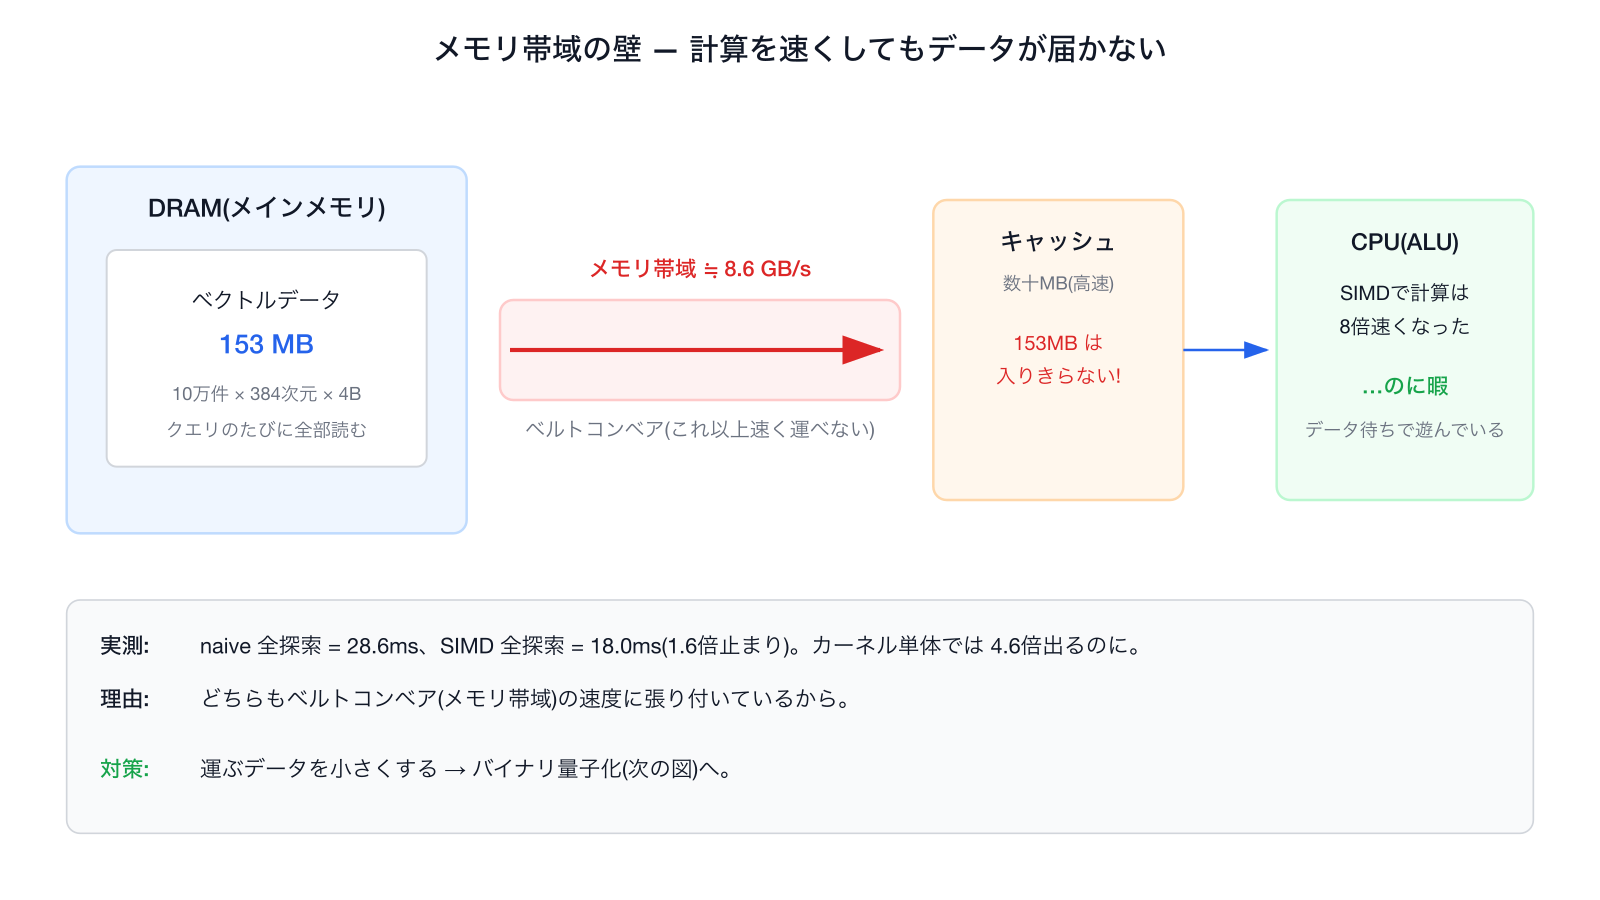
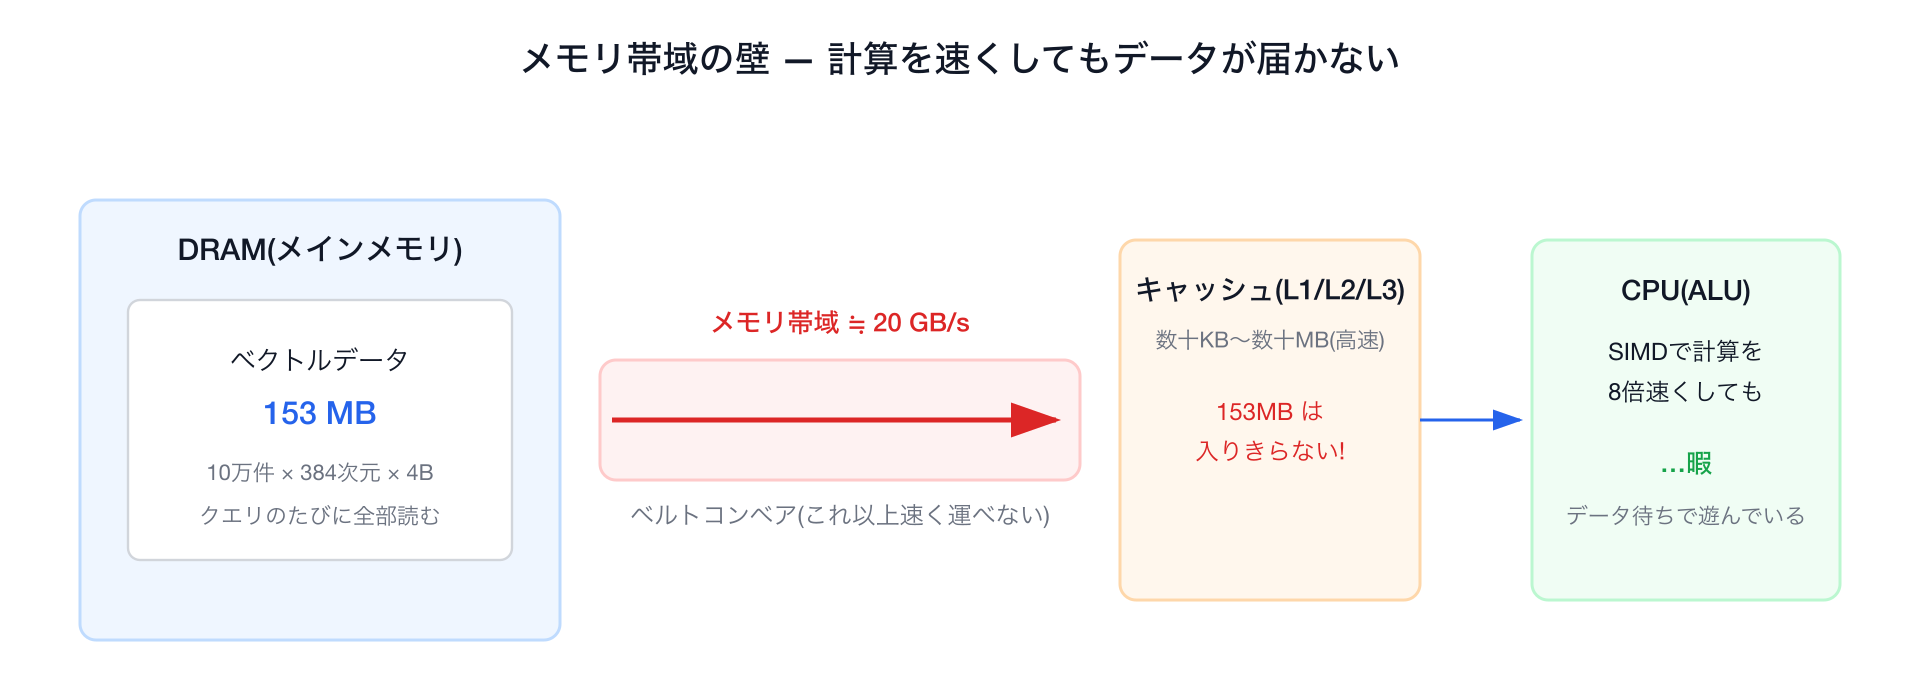
docs(workshop): 「CPUアーキ予備知識不要」の参加資格に合わせて用語の初出を全て補強
最重要: メモリ階層の導入が無いまま §04 以降がキャッシュ/DRAM に依存していた問題を解消
- §04 にメモリ階層プライマー(レジスタ→L1/L2/L3→DRAM・帯域が桁で違う)を追加
- 未使用だった memory-wall 図を改修して §04 に採用(帯域 8.6→20 GB/s、
  キャッシュに L1/L2/L3 を明記、c7i 時代の実測パネルは削除しネタバレも回避)
- LLC → 「最後段のキャッシュ L3」に統一(引用元 ceiling_mem_test.go のコメントも同期)

初出グロス8件:
- FMA(掛けて足すまでを1命令でやる積和命令)、popcount(立っている bit を数える)
- HNSW・IVF(候補を絞る近似索引)、量子化(値を少ないビットで粗く持つ)
- rerank(粗く絞ってから正確に採点し直す)、fp32(= float32)
- サイクル(CPU クロックの1拍)、スカラ縮約/発行(⚠注を平易に書き換え)

diff --git a/internal/vec/ceiling_mem_test.go b/internal/vec/ceiling_mem_test.go
@@ -10,7 +10,7 @@ import "sync"
 //     単コアが DRAM から実際に引ける帯域を測れるので、これが天井の実測値。
 //   - ceiling_mem_scalar_test.go : amd64/SIMD 以外向けのスカラー fallback。
 //
-// 配列は LLC を確実に溢れさせる 256MB。GB/s を ReportMetric で出す。
+// 配列は L3 キャッシュを確実に溢れさせる 256MB。GB/s を ReportMetric で出す。
 // 詳細は docs/workshop/workshop.md。
 //
 // ※ スカラー縮約(a += x[i])でこれを測ると、float 加算の発行/レイテンシで律速して
@@ -18,7 +18,7 @@ import "sync"
 //    達成する帯域すら下回ってしまい、ルーフライン上で点が屋根の上に来てしまう。
 //    そのため天井ベンチも検索と同じ SIMD ロードで測る。詳細は OPTIMIZATION_LOG.md。
 
-const memN = 1 << 26 // 67,108,864 float32 = 256 MB(LLC 溢れ確実)。64/32 で割り切れる
+const memN = 1 << 26 // 67,108,864 float32 = 256 MB(L3 溢れ確実)。64/32 で割り切れる
 
 var (
 	memOnce       sync.Once

diff --git a/docs/workshop/workshop.md b/docs/workshop/workshop.md
@@ -10,7 +10,7 @@ Go 1.26 の実験的 SIMD で、外部ライブラリなしの Pure Go ベクト
 - Go の標準 SIMD(archsimd)の**書き方** — `Float32x8` + FMA でアセンブリも cgo も書かずにベクトル命令を叩く
 - **ルーフラインモデルとは** — 何で詰まっているか(演算律速/メモリ律速)を1枚で見極め、測る → 算術強度(AI)を出す → 当たっている天井を見る → その天井を狙う手だけ打つ
 - **SIMD が「どこで効くか」** — 演算律速なら効き(カーネル・バッチ化)、メモリ律速では頭打ち。それを測って見極められるようになる
-- **高速化の二本柱** — SIMD(実装効率)× データ表現(再利用＝バッチ / バイト削減＝量子化)。そして速度と精度の両立(rerank)
+- **高速化の二本柱** — SIMD(実装効率)× データ表現(再利用＝バッチ / バイト削減＝量子化: 値を少ないビットで粗く持つ)。そして速度と精度の両立(rerank: 粗く絞ってから正確に採点し直す)
 - **実測の作法** — 2粒度で測る・天井をマイクロベンチで実測・Recall で精度を測る
 
 **対象と前提:** Go の基礎が読めれば十分で、CPU アーキの予備知識は要りません(専門用語は初出のところで補足します)。**読み方:** 上から順に通読でき、各節は「なぜ → コード → どうなったか」を実行コマンドつきで追えます。引用ブロックのコラムと「持ち帰り」「付録」は発展的な内容なので、当日の40分に収まらなくても後から読めます。
@@ -39,7 +39,7 @@ Go 1.26 では `GOEXPERIMENT=simd` を付けてビルドすると `simd/archsimd
 ```go
 va := archsimd.LoadFloat32x8Slice(a)   // float32 を8個ロード
 vb := archsimd.LoadFloat32x8Slice(b)
-acc = va.MulAdd(vb, acc)               // acc += va*vb (FMA という1命令)
+acc = va.MulAdd(vb, acc)               // acc += va*vb(FMA: 掛けて足すまでを1命令でやる積和命令)
 ```
 
 注意点として、`archsimd` は今のところ **amd64(Intel/AMD)専用**です。Apple Silicon の Mac(arm64)ではパッケージ自体が無く、スカラ処理にフォールバックします(Go 1.27 では arm64(Neon)対応が予定されています — 最後の「持ち帰り」で触れます)。
@@ -62,7 +62,7 @@ var c archsimd.Uint64x4     // uint64 を4レーン
 va := archsimd.LoadFloat32x8Slice(xs)  // スライス → レジスタ(ロード)
 va = va.MulAdd(vb, acc)                // 積和      → VFMADD
 xo := vc.Xor(vd)                       // XOR       → VPXOR(vc・vd は Uint64x4。Xor は整数ベクトル専用)
-po := xo.OnesCount()                   // popcount  → VPOPCNTQ
+po := xo.OnesCount()                   // popcount(立っている bit を数える)→ VPOPCNTQ
 va.StoreSlice(xs)                      // レジスタ → スライス(ストア)
 ```
 
@@ -101,7 +101,7 @@ var hasVPOPCNT = archsimd.X86.AVX512() && archsimd.X86.AVX512VPOPCNTDQ()   // On
 
 | 項目 | 今回の設定 | 本番でよくある形 |
 |---|---|---|
-| 探索 | **全探索**(10万件すべてと内積) | HNSW・IVF などで候補だけ触る |
+| 探索 | **全探索**(10万件すべてと内積) | HNSW・IVF など候補を絞る近似索引で一部だけ触る |
 | クエリ | **1本ずつ**(最初の2段階) | 同時に多数のクエリが来る |
 | スレッド | **1コア**(1クエリのレイテンシを測る。並列は§06の寄り道で実測) | マルチコアで並列処理 |
 | データ | **メモリ上の配列** | ディスク・ネットワーク越し |
@@ -159,12 +159,18 @@ make bench0     # スカラ実装の全探索(=ベースライン)を測る
 
 この2つのどちらで遅くなっているかがわからないまま高速化の手法を入れても無駄に終わる可能性があります。まずどちらで詰まっているかを見極めるのがルーフラインモデルの役目です。
 
+その前に、前提になる CPU の作りを1つだけ補足します。CPU はデータを**速い順に「レジスタ → キャッシュ(L1/L2/L3 の3段。数十KB〜数十MB)→ DRAM(メインメモリ。数GB〜)」**という階層から取ってきます。キャッシュは小さいけれど速く、DRAM は大きいけれど遅い — 1秒に運べる量(**帯域**)が桁で違います。「メモリ律速」とは、データが DRAM からしか届かず、計算器がデータ待ちで遊んでしまう状態のことです。
+
+![メモリ帯域の壁 — 計算を速くしてもデータが届かない](../images/memory-wall.png)
+
+図: 本資料のデータ(10万件 = 153MB)はキャッシュに入りきらず、クエリのたびに DRAM からベルトコンベア(帯域)で運ぶことになります。以降「キャッシュに乗る」「DRAM に溢れる」と言ったら、この階層の話です。
+
 下図は、縦軸に**性能**(GFLOP/s＝1秒あたりの浮動小数点演算回数)・横軸に**算術強度**(AI ＝ 計算量 ÷ データ転送量)を取り、その機械の物理的な上限を屋根(ルーフ)として描きます。左側のメモリ帯域で決まる右上がりの斜線(メモリ律速)と、右側の演算ピークで決まる水平線(演算律速)の領域があります。
 
 
 ![ルーフラインの屋根の形(概念図): メモリ斜線・演算水平線・リッジ・左右の律速領域](../images/roofline-concept.png)
 
-ここで**算術強度 (AI)** とは **「メモリから1バイト運ぶごとに、何回 計算するか」**(flop/byte)です。今回の全探索・1クエリの前提では、内積は要素あたり mul 1 + add 1 = 2 flop で、DB ベクトルを要素あたり 4 バイト(fp32)読みます(クエリ側は10万件で使い回すのでキャッシュに残り、毎回は運びません)。この前提で計算をすると算術強度(AI)は次のように0.5と計算できます。
+ここで**算術強度 (AI)** とは **「メモリから1バイト運ぶごとに、何回 計算するか」**(flop/byte)です。今回の全探索・1クエリの前提では、内積は要素あたり mul 1 + add 1 = 2 flop で、DB ベクトルを要素あたり 4 バイト(fp32 = float32)読みます(クエリ側は10万件で使い回すのでキャッシュに残り、毎回は運びません)。この前提で計算をすると算術強度(AI)は次のように0.5と計算できます。
 
 ```text
 AI = 2 flop / 4 byte = 0.5 flop/byte
@@ -231,10 +237,10 @@ b.ReportMetric(flop/sec/1e9, "GFLOP/s")      // ← これが 25.59
 
 ### キャッシュに乗らない巨大配列を先頭から末尾まで順番に読んでメモリ天井を見る
 
-メモリ帯域は「**DRAM から1スレッドで流し読みしたら何 GB/s 出るか**」で測ります。キャッシュに収まると DRAM を測れないので、**256MB**(LLC を確実に溢れる)の配列を先頭から末尾まで順番に読みます。`internal/vec/ceiling_mem_simd_test.go`(要点のみ・Triad の実コードは4本展開):
+メモリ帯域は「**DRAM から1スレッドで流し読みしたら何 GB/s 出るか**」で測ります。キャッシュに収まると DRAM を測れないので、**256MB**(最後段のキャッシュ L3 を確実に溢れる)の配列を先頭から末尾まで順番に読みます。`internal/vec/ceiling_mem_simd_test.go`(要点のみ・Triad の実コードは4本展開):
 
 ```go
-const memN = 1 << 26  // 67,108,864 float32 = 256 MB(LLC 溢れ確実)
+const memN = 1 << 26  // 67,108,864 float32 = 256 MB(L3 溢れ確実)
 
 // read 帯域: 検索カーネルと同じ 256bit ロード(8本のアキュムレータ)で
 // DRAM 読みを飽和させる。スカラ縮約だと足し算の発行律速で過小評価するため SIMD で測る
@@ -257,7 +263,7 @@ b.ReportMetric(gb, "triad-GB/s")   // ← 17.36
 
 帯域の2つの測り方を確認します。`BenchmarkPeakReadBW`(**~20 GB/s**)は読み専用で、検索カーネルと同じ SIMD ロードなので **DRAM の読み出し帯域をそのまま測れます**。`BenchmarkPeakTriadBW`(17.4 GB/s)は業界標準の STREAM ベンチで read+write を含むぶん少し低い。**今回の検索は DB ベクトルを「読むだけ」(書き戻さない)** なので、メモリ天井には **read 帯域 ~20 GB/s** を使います。実際、SIMD 全探索(先頭から順番に読む)が **19.4 GB/s** とほぼ一致するので、この数字を壁と見ます。
 
-> ⚠ スカラ縮約(`a0 += memB[i]`)で read を測ると足し算の発行/レイテンシで律速し、**SIMD 全探索が達成する帯域すら下回って**しまいます(特に単コア帯域の高い AMD で顕著 → ルーフライン上で点が屋根の上に来てしまう)。だから天井ベンチも検索と同じ SIMD ロードで測ります。詳細は [`../dev/OPTIMIZATION_LOG.md`](../dev/OPTIMIZATION_LOG.md)。
+> ⚠ スカラ縮約(`a0 += memB[i]` と1個ずつ足すだけの実装)で read を測ると、足し算側の制約(1サイクルに発行できる命令数とレイテンシ)で律速し、**SIMD 全探索が達成する帯域すら下回って**しまいます(特に単コア帯域の高い AMD で顕著 → ルーフライン上で点が屋根の上に来てしまう)。だから天井ベンチも検索と同じ SIMD ロードで測ります。詳細は [`../dev/OPTIMIZATION_LOG.md`](../dev/OPTIMIZATION_LOG.md)。
 
 **比較ルール:** 検索は 1クエリ・1スレッドで測るので、天井も**1コア**の帯域(~20 GB/s)と突き合わせます。CPU 全体・全コア合計の帯域(数百 GB/s 級)は使いません。
 
@@ -366,7 +372,7 @@ func (ix *Index) SearchNaive(q []float32, k int) []Result {
 }
 ```
 
-**どうなったか:** 全探索 35.7 ms = **2.15 GFLOP/s**、AI=0.5。達成 2.15 GFLOP/s は、メモリ天井(≈10 GF)にすら届きません。なぜ天井未満か? **依存連鎖律速** — `sum += ...` は前の足し算が終わるまで次へ進めず、待ち時間(レイテンシ)がそのまま表に出ます。加算の依存連鎖が直列で、**命令レベルの並列性がほぼ活かせません**(384要素 × 加算レイテンシ(Zen3 で約3サイクル)÷ 周波数 ≒ 実測のカーネル 348ns とほぼ一致します)。  
+**どうなったか:** 全探索 35.7 ms = **2.15 GFLOP/s**、AI=0.5。達成 2.15 GFLOP/s は、メモリ天井(≈10 GF)にすら届きません。なぜ天井未満か? **依存連鎖律速** — `sum += ...` は前の足し算が終わるまで次へ進めず、待ち時間(レイテンシ)がそのまま表に出ます。加算の依存連鎖が直列で、**命令レベルの並列性がほぼ活かせません**(384要素 × 加算レイテンシ(Zen3 で約3サイクル。サイクル = CPU クロックの1拍)÷ 周波数 ≒ 実測のカーネル 348ns とほぼ一致します)。  
 **→ 次の一手:** ルーフラインの「どの天井にも未達なら命令並列性を上げる」に従い、**同時に複数(SIMD)**で命令並列性を上げ、達成性能を引き上げます。
 
 ```bash
